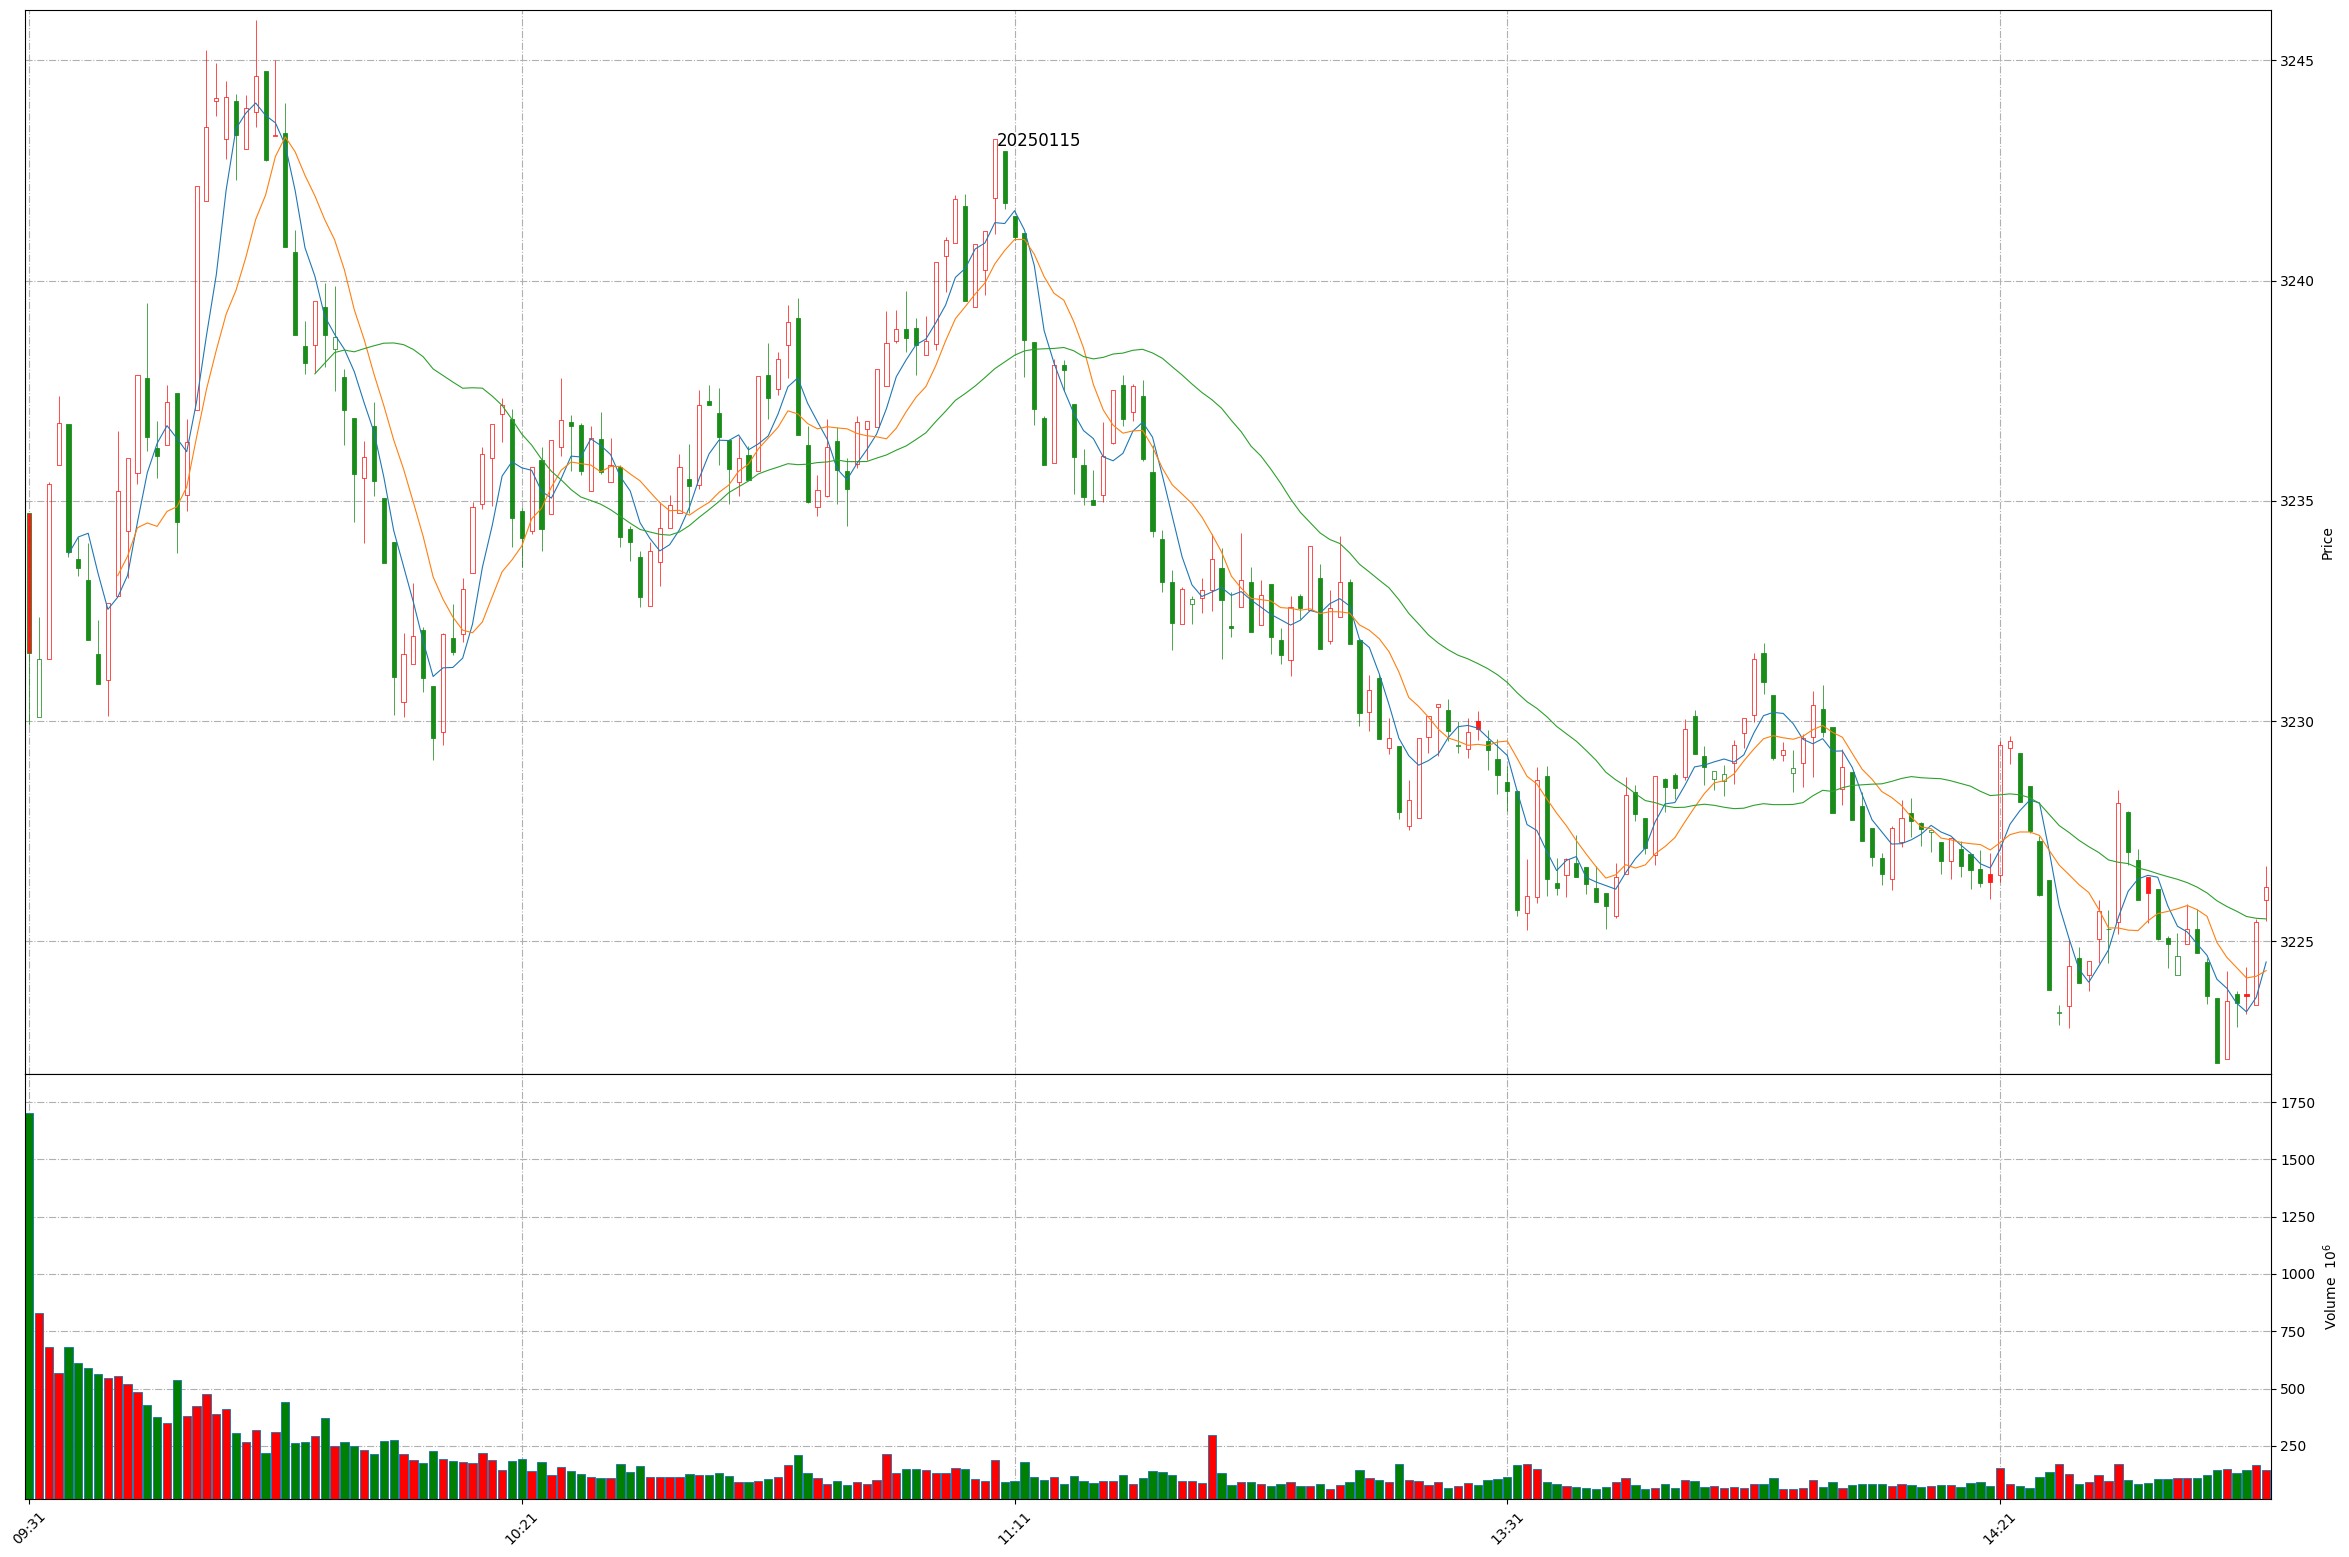
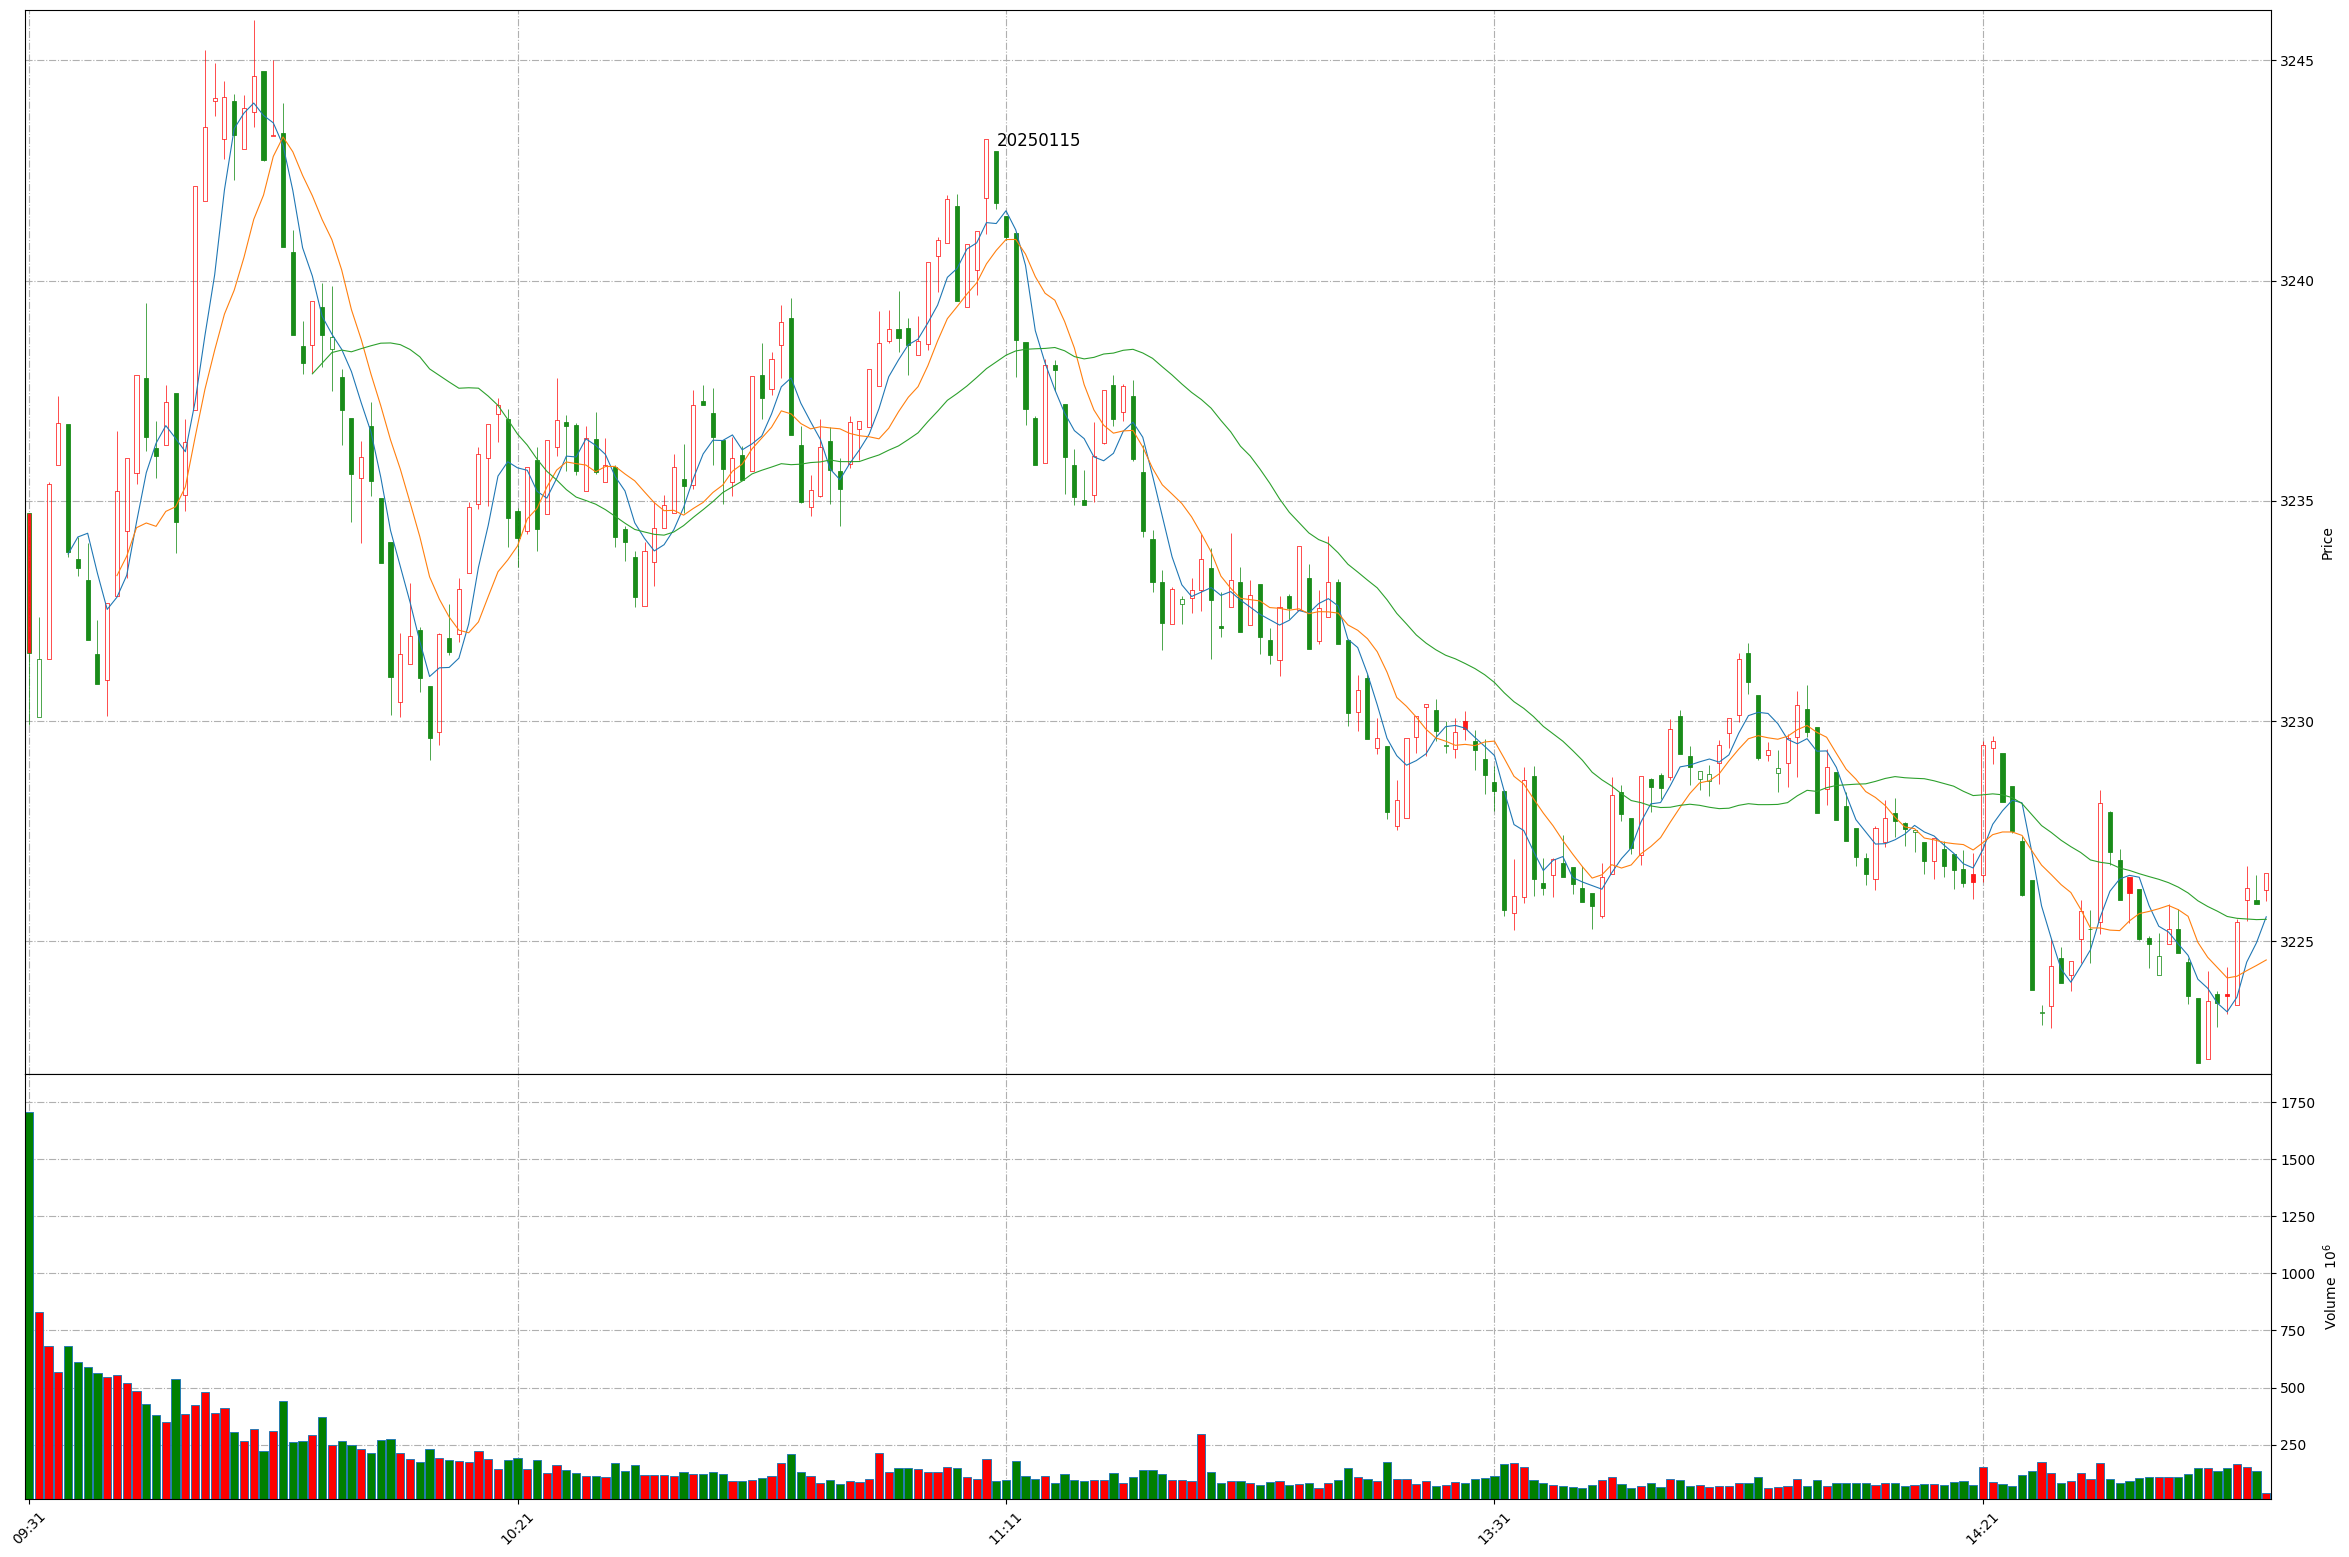
Github action update at 2025-01-15 14:49:26.

Changed region(s): [[0.0932, 0.0308, 0.9634, 0.6782], [0.0311, 0.894, 0.9634, 0.9865], [0.0311, 0.185, 0.0932, 0.3699]]

diff --git a/README.md b/README.md
@@ -1,11 +1,11 @@
 
 # Daily-A-share-market-quotes 每日 A 股指数（5min 更新）- 20250115
 
-### 上证指数 20250115 14:48
+### 上证指数 20250115 14:49
 ![](./fig/2025/1/20250115-sh000001.png)
 
-### 深证成指 20250115 14:48
+### 深证成指 20250115 14:49
 ![](./fig/2025/1/20250115-sz399001.png)
 
-### 北证50 20250115 14:48
+### 北证50 20250115 14:49
 ![](./fig/2025/1/20250115-bj899050.png)
